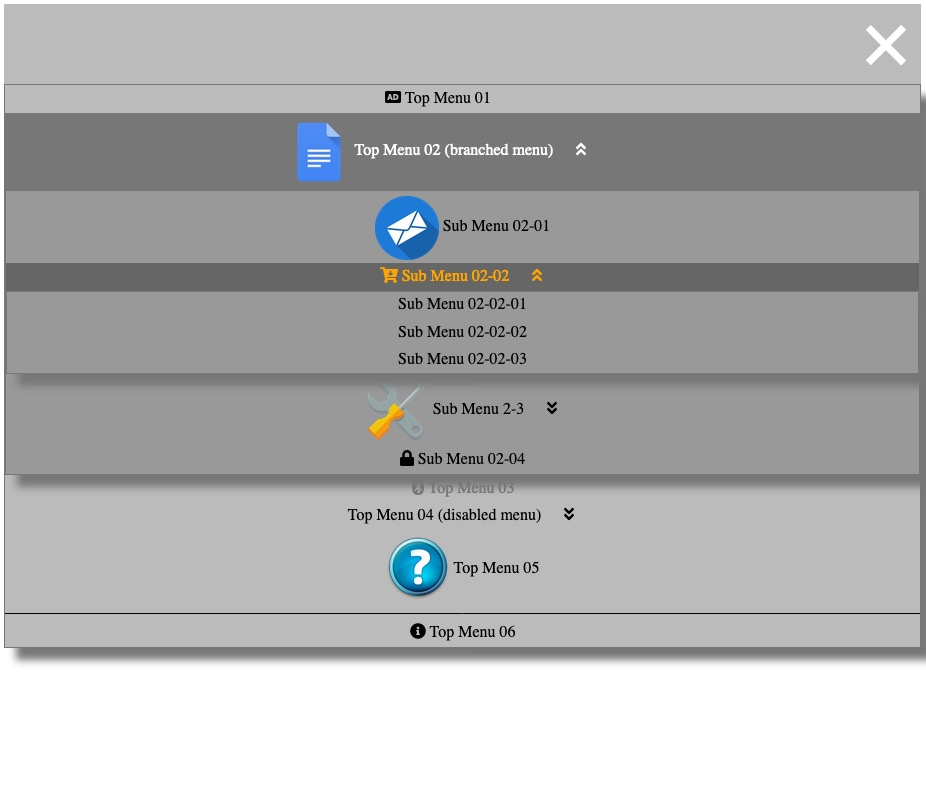
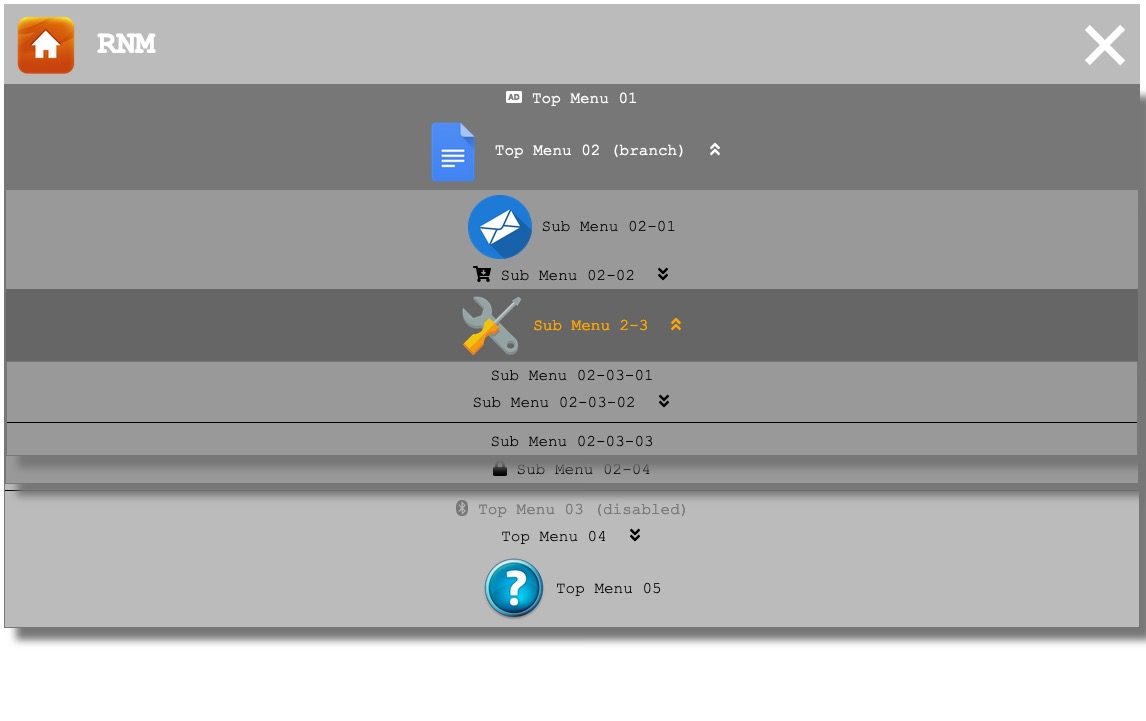
bugs fix, V1.01

diff --git a/src/rnm.js b/src/rnm.js
@@ -1,5 +1,5 @@
 /*
- * RNM V 1.0
+ * RNM V 1.01
  * Responsive Navigation Menu
  * @author Jesse Chan <jesse.chan@hotmail.com>
  * @license MIT
@@ -138,16 +138,30 @@ function _rnm_init_class_(jroot) {
     // add .-rnm-top-li-
     // set the font-size of .-rnm-top-li-
     // set font-size 0 to .-rnm-top-ul- to avoid inline-block gaps
-    // store lineHeight dividerHeight to .-rnm-top-ul-
+    // store lineHeight to .-rnm-top-li-
+    let f = 0;
     $(jroot.data().id + ' .-rnm-lv0- > li').each(function () {
         let t = $(this);
         let lh = parseFloat(t.children('div').css('height'));
+        let fs = t.css('font-size');
+        if (parseFloat(fs) > f)
+            f = parseFloat(fs);
         if (isNaN(lh))
-            t.addClass('-rnm-top-li-').css({'font-size': t.css('font-size')});
+            t.addClass('-rnm-top-li-').css({'font-size': fs});
         else
-            t.addClass('-rnm-top-li-').css({'font-size': t.css('font-size')}).data('lineHeight', (lh + 8) + 'px');
+            t.addClass('-rnm-top-li-').css({'font-size': fs}).data('lineHeight', (lh + 8) + 'px');
     });
     $(jroot.data().id + ' .-rnm-lv0-').css('font-size', 0).data('level', 0);
+    // calculate the top divider height
+    let n = parseFloat(jroot.css('height'));
+    if ((n-20) > (f + 16))
+      jroot.data('dividerHeight', (n-20) + 'px');
+    else {
+      if ((f + 16) > n)
+        jroot.data('dividerHeight', (n-8) + 'px');
+      else
+        jroot.data('dividerHeight', (f+16) + 'px');
+    }
     // store dividerWidth to jroot
     let a = (jroot.data().dividerStyle === undefined)?[]:jroot.data().dividerStyle.split(' ');
     let w = 0;
@@ -228,7 +242,14 @@ function _rnm_init_event_handler_(jroot) {
 //====== events handler ======
 function _rnm_resize_(e) {
     let jroot = e.data;
-    if (parseFloat(jroot.css('width')) > jroot.data('rnmTopUlWidth')) {
+    let w = jroot.outerWidth();
+    let iw = 0;
+    jroot.children().each(function (){
+        let t = $(this);
+        if ((t.hasClass('-rnm-top-ul-') === false)&&(t.hasClass('-rnm-ham-icon-') === false))
+            iw += (t.outerWidth() + parseFloat(t.css('margin-left')) + parseFloat(t.css('margin-right')));
+    });
+    if ((parseFloat(jroot.css('width')) - iw) > jroot.data('rnmTopUlWidth')) {
         if (jroot.hasClass('-rnm-nav-') === false) {
             _rnm_nav_(jroot);
         }
@@ -290,7 +311,7 @@ function _rnm_ham_(jroot) {
     // remove .-rnm-nav-, add .-rnm-ham-
     jroot.removeClass('-rnm-nav- -rnm-open-').addClass('-rnm-ham- -rnm-close-')
     // set .-rnm-top-ul- .-rnm-top-li- css
-    tu.css({'line-height': '', 'top': tu.data('navLineHeight'), 'height': ''});
+    tu.css({'line-height': '', 'top': tu.data('navLineHeight'), 'height': '', 'display': ''});
     $(jroot.data().id + ' .-rnm-top-li- ').each(function (){
         let t = $(this);
         t.css('line-height', t.data('lineHeight'));
@@ -304,12 +325,14 @@ function _rnm_nav_(jroot) {
     // remove .-rnm-ham-, add .-rnm-nav-
     jroot.removeClass('-rnm-ham- -rnm-close-').addClass('-rnm-nav- -rnm-open-')
     // set .-rnm-top-ul- .-rnm-top-li- css
-    tu.css({'line-height': tu.data('navLineHeight'), 'top': '0', 'height': tu.data('navLineHeight')});
+    tu.css({'line-height': tu.data('navLineHeight'), 'top': '0', 'height': tu.data('navLineHeight'), 'display': 'inline-block'});
     $(jroot.data().id + ' .-rnm-top-li- ').each(function (){
         let t = $(this);
         t.css('line-height', '');
     });
-    $(jroot.data().id + ' .-rnm-top-li-.-rnm-divider-').css({'line-height': tu.data('lineHeight'), 'width': jroot.data('dividerWidth')});
+    $(jroot.data().id + ' .-rnm-top-li-.-rnm-divider-').css({'line-height': jroot.data('dividerHeight'), 'width': jroot.data('dividerWidth')});
+    // adjust .-rnm-top-ul- position
+    tu.css('top', (jroot.position().top - tu.position().top) + 'px');
 }
 // open sub ul at nav state
 function _rnm_nav_open_ul_(jroot, j){

diff --git a/index.html b/index.html
@@ -27,12 +27,16 @@
 </head>
 <body>
 <nav id="rnmRoot">
+    <div id="logo" style="display:inline-block; line-height:80px; margin-left:10px; font-size: 32px; font-weight: 800; color: white;">
+        <img src="assets/home.png" height="64" width="64" style="vertical-align: middle;">
+        RNM
+    </div>
     <ul>
         <li>
             <div><i class="fas fa-audio-description"></i> Top Menu 01</div>
         </li>
         <li>
-            <div><img height="64" width="64" src="assets/file.png">  Top Menu 02 (branched menu)</div>
+            <div><img height="64" width="64" src="assets/file.png">  Top Menu 02 (branch)</div>
             <ul>
                 <li>
                     <div><img height="64" width="64" src="assets/email.png"> Sub Menu 02-01</div>
@@ -68,11 +72,12 @@
                 </li>
             </ul>
         </li>
+        <li class="-rnm-divider-"></li>
         <li class="-rnm-disabled-">
-            <div><i class="fab fa-bluetooth"></i> Top Menu 03</div>
+            <div><i class="fab fa-bluetooth"></i> Top Menu 03 (disabled)</div>
         </li>
         <li>
-            <div>Top Menu 04 (disabled menu)</div>
+            <div>Top Menu 04</div>
             <ul>
                 <li>
                     <div>Sub Menu 04-01</div>
@@ -91,10 +96,6 @@
         </li>
         <li>
             <div><img height="64" width="64" src="assets/help.png"> Top Menu 05</div>
-        </li>
-        <li class="-rnm-divider-"></li>
-        <li>
-            <div><i class="fas fa-info-circle"></i> Top Menu 06</div>
         </li>
     </ul>
 </nav>

diff --git a/src/rnm.css b/src/rnm.css
@@ -9,13 +9,14 @@
     box-sizing: border-box;
 }
 .-rnm-top-ul- {
-    position: relative;
     margin: 0;
     padding: 0;
 }
 .-rnm-nav- .-rnm-top-ul- {
+    position: relative;
 }
 .-rnm-ham- .-rnm-top-ul- {
+    position: static;
 }
 .-rnm-sub-ul- {
     padding-left: 0;

diff --git a/README.md b/README.md
@@ -70,7 +70,8 @@ Structure
  * .-rnm-root- .-rnm-nav-|.-rnm-ham- .-rnm-open-|.-rnm-close-
  * (rnmMaxDepth) store max level of menu
  * (rnmTopUlWidth) store the total width of visible list items
- * (dividerWidth) top ul divider width
+ * (dividerWidth) top li divider width
+ * (dividerHeight) top li divider line-height
  
  ```
 <NAV.-rnm-root-#-rnm-[n]->
